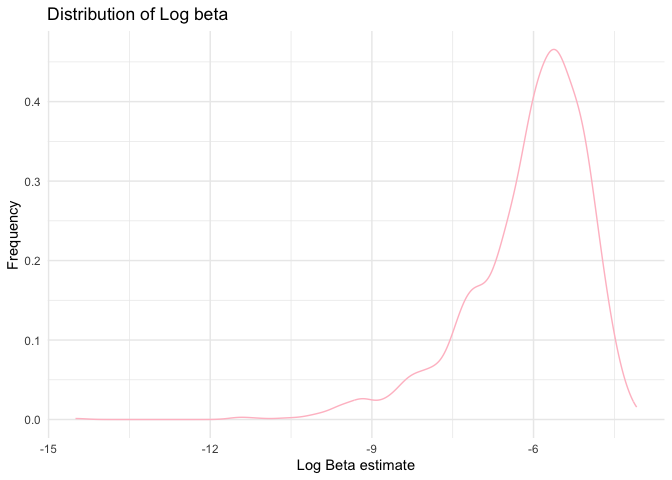
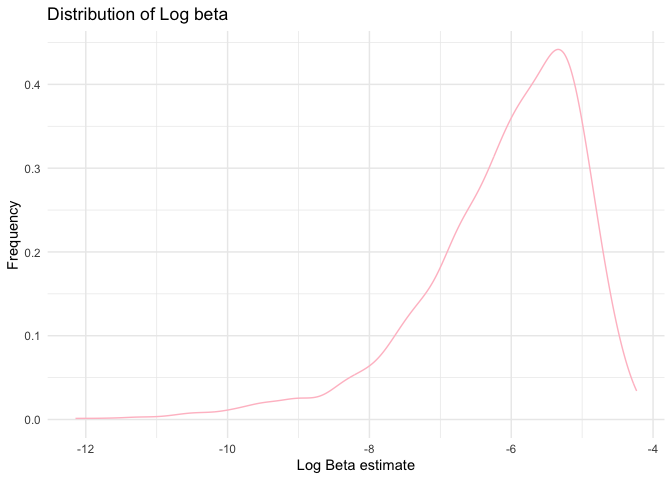
all description added

diff --git a/p8105_hw6_yc3577.md b/p8105_hw6_yc3577.md
@@ -360,18 +360,18 @@ bootstrap_results1
 ```
 
     ## # A tibble: 15,000 × 8
-    ##    number sample   term         estimate std.error statistic   p.value r_squared
-    ##     <int> <list>   <chr>           <dbl>     <dbl>     <dbl>     <dbl>     <dbl>
-    ##  1      1 <tibble> (Intercept)   7.84e+0   0.243     32.3    1.00e-108     0.911
-    ##  2      1 <tibble> tmin          1.02e+0   0.0169    60.6    1.30e-191     0.911
-    ##  3      1 <tibble> prcp         -3.59e-5   0.00189   -0.0190 9.85e-  1     0.911
-    ##  4      2 <tibble> (Intercept)   7.86e+0   0.279     28.2    1.97e- 93     0.893
-    ##  5      2 <tibble> tmin          1.01e+0   0.0185    54.7    5.08e-177     0.893
-    ##  6      2 <tibble> prcp          6.45e-3   0.00236    2.73   6.71e-  3     0.893
-    ##  7      3 <tibble> (Intercept)   8.18e+0   0.237     34.5    2.28e-116     0.905
-    ##  8      3 <tibble> tmin          1.01e+0   0.0172    58.8    2.63e-187     0.905
-    ##  9      3 <tibble> prcp          2.96e-3   0.00195    1.52   1.29e-  1     0.905
-    ## 10      4 <tibble> (Intercept)   8.08e+0   0.238     33.9    2.79e-114     0.911
+    ##    number sample   term        estimate std.error statistic   p.value r_squared
+    ##     <int> <list>   <chr>          <dbl>     <dbl>     <dbl>     <dbl>     <dbl>
+    ##  1      1 <tibble> (Intercept)  8.02      0.238       33.7  7.93e-114     0.919
+    ##  2      1 <tibble> tmin         1.03      0.0161      63.7  1.07e-198     0.919
+    ##  3      1 <tibble> prcp        -0.00596   0.00238     -2.51 1.26e-  2     0.919
+    ##  4      2 <tibble> (Intercept)  8.28      0.203       40.8  1.53e-137     0.932
+    ##  5      2 <tibble> tmin         1.02      0.0144      70.4  2.27e-213     0.932
+    ##  6      2 <tibble> prcp        -0.00596   0.00207     -2.89 4.12e-  3     0.932
+    ##  7      3 <tibble> (Intercept)  7.74      0.225       34.5  2.33e-116     0.922
+    ##  8      3 <tibble> tmin         1.04      0.0159      65.1  6.21e-202     0.922
+    ##  9      3 <tibble> prcp        -0.00605   0.00213     -2.84 4.82e-  3     0.922
+    ## 10      4 <tibble> (Intercept)  8.34      0.241       34.7  4.07e-117     0.905
     ## # ℹ 14,990 more rows
 
 ``` r
@@ -398,18 +398,18 @@ bootstrap_results2
 ```
 
     ## # A tibble: 5,000 × 6
-    ##    number r_squared `(Intercept)`  tmin       prcp log_beta
-    ##     <int>     <dbl>         <dbl> <dbl>      <dbl>    <dbl>
-    ##  1      1     0.911          7.84  1.02 -0.0000359   NaN   
-    ##  2      2     0.893          7.86  1.01  0.00645      -5.03
-    ##  3      3     0.905          8.18  1.01  0.00296      -5.81
-    ##  4      4     0.911          8.08  1.02 -0.00714     NaN   
-    ##  5      5     0.889          8.10  1.01  0.00220      -6.11
-    ##  6      6     0.921          7.96  1.03 -0.00135     NaN   
-    ##  7      7     0.898          8.02  1.00 -0.00101     NaN   
-    ##  8      8     0.900          8.01  1.01  0.00779      -4.84
-    ##  9      9     0.927          8.04  1.01  0.0000790    -9.44
-    ## 10     10     0.907          7.89  1.01  0.00312      -5.76
+    ##    number r_squared `(Intercept)`  tmin      prcp log_beta
+    ##     <int>     <dbl>         <dbl> <dbl>     <dbl>    <dbl>
+    ##  1      1     0.919          8.02 1.03  -0.00596       NaN
+    ##  2      2     0.932          8.28 1.02  -0.00596       NaN
+    ##  3      3     0.922          7.74 1.04  -0.00605       NaN
+    ##  4      4     0.905          8.34 0.989 -0.00363       NaN
+    ##  5      5     0.936          8.10 1.01  -0.00737       NaN
+    ##  6      6     0.935          7.98 1.02  -0.00705       NaN
+    ##  7      7     0.934          7.76 1.04  -0.00693       NaN
+    ##  8      8     0.891          8.49 0.990 -0.000346      NaN
+    ##  9      9     0.907          8.50 0.988 -0.00781       NaN
+    ## 10     10     0.932          7.76 1.03  -0.00662       NaN
     ## # ℹ 4,990 more rows
 
 Plot the distribution of your estimates, and describe these in words.
@@ -431,7 +431,7 @@ beta_dist =
 beta_dist
 ```
 
-    ## Warning: Removed 3334 rows containing non-finite values (`stat_density()`).
+    ## Warning: Removed 3400 rows containing non-finite values (`stat_density()`).
 
 ![](p8105_hw6_yc3577_files/figure-gfm/unnamed-chunk-4-1.png)<!-- -->
 
@@ -520,7 +520,7 @@ logbeta_quantile
     ## # A tibble: 1 × 2
     ##   CI_Low CI_High
     ##    <dbl>   <dbl>
-    ## 1  -8.99   -4.59
+    ## 1  -9.13   -4.60
 
 - From calculation, the 95% confidence interval for log\_(betatmin \*
   betaprcp) is (-8.998584, -4.589433) which means that we have 95 out of
@@ -690,6 +690,13 @@ summary(birthweight_model)
   smoken + wtgain are potential factors/ variables in the model, so I
   include all into the model and show the linear regression on the bwt
   which is the baby’s weight.
+- From the model summary, we can see that
+  smoken，parity，gaweeks，delwt，blength，and bhead all have p-value
+  smaller than 0.05 which is significant factor for the model
+  prediction, while other estimates have higher than 0.5 p-value
+  indicating no significant correlation to the baby’s weight. Therefore,
+  for model modification, we can leave the significant variable and
+  deduct the insignificant variables.
 
 Describe your modeling process and show a plot of model residuals
 against fitted values – use add_predictions and add_residuals in making
@@ -746,7 +753,12 @@ resid_bw_plot
     ## `geom_smooth()` using formula = 'y ~ x'
 
 ![](p8105_hw6_yc3577_files/figure-gfm/unnamed-chunk-10-1.png)<!-- --> -
-From the residual plot
+From the residual plot, we can see the distribution of residuals over
+predicted values for original birthweight model that the predicted
+values concentrated around 3000 and ranges from 1000 to 4000 with
+residuals centered at 0 and ranges from -1000 to 1000. There are several
+single values from 1000 to 2000 for the predicted values, it means that
+there is a left tail that has extreme low predicted values.
 
 ``` r
 # To make sure the value is constant, we need to set the seed.
@@ -1036,4 +1048,14 @@ cv_violine_plot =
 cv_violine_plot
 ```
 
-![](p8105_hw6_yc3577_files/figure-gfm/unnamed-chunk-16-1.png)<!-- -->
+![](p8105_hw6_yc3577_files/figure-gfm/unnamed-chunk-16-1.png)<!-- --> -
+From the violin and box plot, we can see that the original birthweight
+model has the smallest rmse around 275 and it has the smallest range
+from 255 to 295, and model1 has the largest rmse around 325 and longest
+tail of range from 310 to 365, and model2 has a rmse around 287.5 which
+is much closer to original birthweight model with a spread from 270 to
+312.5. In order to have a good fit, we need to make sure it has a small
+rmse along with more concentrated shorter spread, so all in all original
+birthweight model with most variables included is the best model for the
+prediction. It is logical since we include more factors, the model maybe
+more precise with lower rmse.
